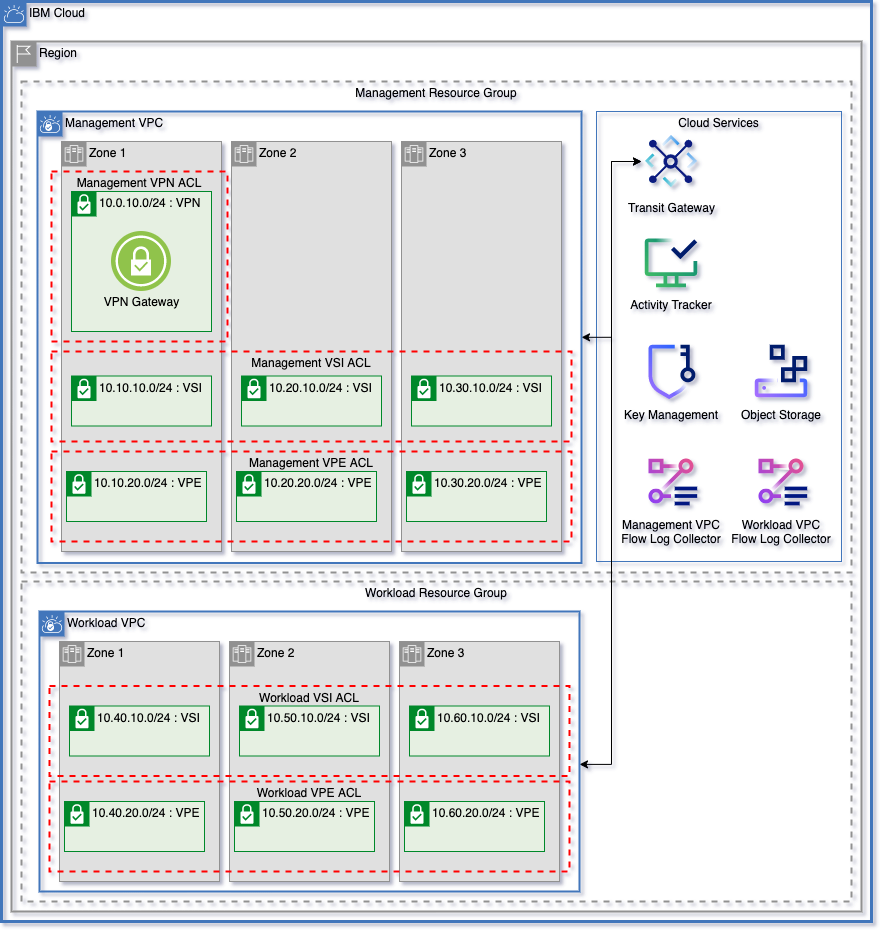
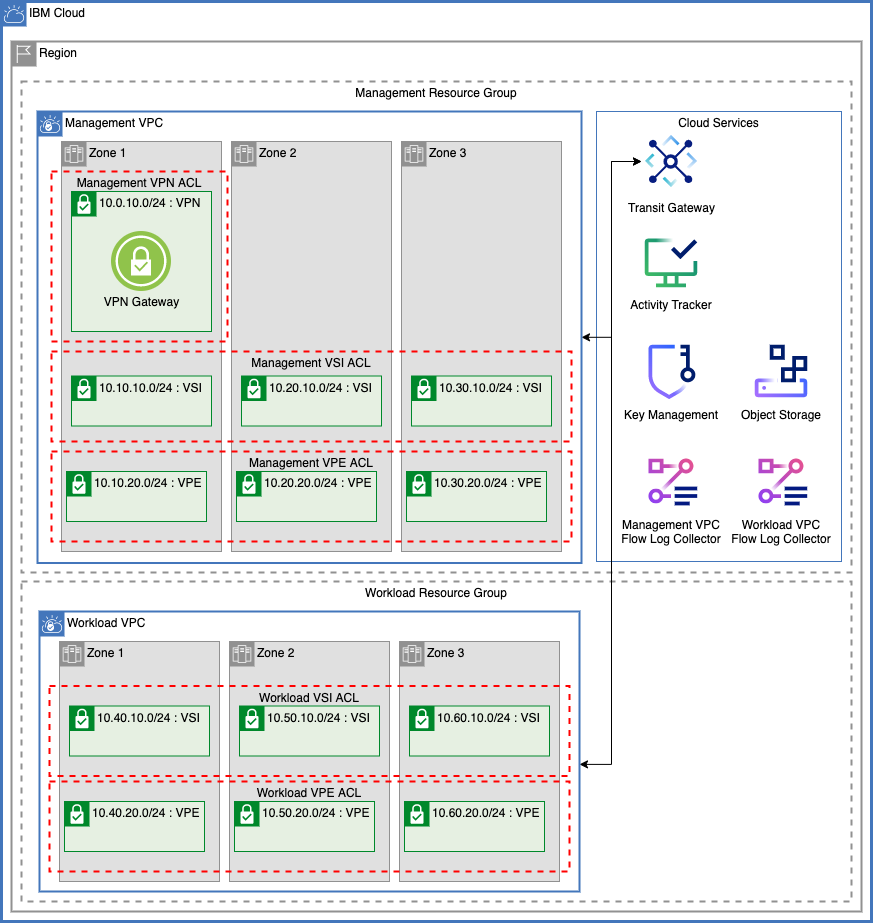
Add VPE

Changed region(s): [[0.0, 0.0, 1.0, 1.0]]

diff --git a/README.md b/README.md
@@ -24,9 +24,10 @@ Create flexible VPC networks in 1, 2, or 3 zones using Flow Logs and encrypted C
 5. [Logging and Monitoring](#logging-and-monitoring) 
     - [Flow Logs Collectors](#flow-logs-collectors)
     - [Atracker](#atracker)
-6. [Naming Convention](#naming-convention)
-7. [Template Variables](#template-variables)
-8. [Template Outputs](#template-outputs)
+6. [Virtual Private Endpoints](#virtual-private-endpoints)
+7. [Naming Convention](#naming-convention)
+8. [Template Variables](#template-variables)
+9. [Template Outputs](#template-outputs)
 
 ---
 
@@ -237,54 +238,85 @@ By setting the `enable_atracker` variable to `true`, an Atracker target will be 
 
 ---
 
+## Virtual Private Endpoints
+
+Set the `enable_virtual_private_enpoints` variable to `true` to enable the creation of Virtual Private Endpoints for cloud servies. This template uses the [ICSE VPE Module](github.com/Cloud-Schematics/vpe-module) to create Reserved IPs and Gateways.
+
+### Example Architecture with Enabled VPE
+
+![vpn-nw](.docs/vpe-nw.png)
+
+### VPE Varaibles
+
+Name                                     | Type         | Description                                                                                            | Sensitive | Default
+---------------------------------------- | ------------ | ------------------------------------------------------------------------------------------------------ | --------- | -------------------------------
+enable_virtual_private_endpoints         | bool         | Enable virtual private endpoints.                                                                      |           | false
+vpe_services                             | list(string) | List of VPE Services to use to create endpoint gateways.                                               |           | ["cloud-object-storage", "kms"]
+vpcs_create_endpoint_gateway_on_vpe_tier | list(string) | Create a Virtual Private Endpoint for supported services on each `vpe` tier of VPC names in this list. |           | ["management", "workload"]
+
+### VPE Failure States
+
+Configuration for this template will fail if `enable_virtual_private_endpoints` is true and `vpe` is not found in `subnet_tiers`.
+
+---
+
 ## Naming Convention
 
 Each resource created using this template has the prefix in `var.prefix` prepended to the resource service instance name.
 
-Resource Type               | Name Format
-----------------------------|---------------
-Resource Group              | `<prefix>-<vpc_name>-rg`
-Object Storage              | `<prefix>-cos-<random_suffix>`
-Object Storage Buckets      | `<prefix>-<vpc_name>-<flow-logs or atracker>-bucket-<random_suffix>`
-Key Management              | `<prefix>-kms`
-Key Management Key          | `<prefix>-bucket-key`
-Transit Gateway             | `<prefix>-transit-gateway`
-Transit Gateway Connections | `<prefix>-<vpc_name>-hub-connection`
-Public Gateways             | `<prefix>-<vpc_name>-public-gateway-zone-<zone>`
-Network ACLs                | `<prefix>-<vpc_name>-<subnet_tier_name>-acl`
-Subnets                     | `<prefix>-<vpc_name>-<subnet_tier_name>-<zone>`
-VPN Gateways                | `<prefix>-<vpc_name>-vpn-gateway`
-VPCs                        | `<prefix>-<vpc_name>-vpc`
-Flow Logs Collectors        | `<prefix>-<vpc_name>-flow-logs`
-Atracker                    | `<<prefix>-atracker`
+Resource Type                     | Name Format
+----------------------------------|---------------
+Resource Group                    | `<prefix>-<vpc_name>-rg`
+Object Storage                    | `<prefix>-cos-<random_suffix>`
+Object Storage Buckets            | `<prefix>-<vpc_name>-<flow-logs or atracker>-bucket-<random_suffix>`
+Key Management                    | `<prefix>-kms`
+Key Management Key                | `<prefix>-bucket-key`
+Transit Gateway                   | `<prefix>-transit-gateway`
+Transit Gateway Connections       | `<prefix>-<vpc_name>-hub-connection`
+Public Gateways                   | `<prefix>-<vpc_name>-public-gateway-zone-<zone>`
+Network ACLs                      | `<prefix>-<vpc_name>-<subnet_tier_name>-acl`
+Subnets                           | `<prefix>-<vpc_name>-<subnet_tier_name>-<zone>`
+VPN Gateways                      | `<prefix>-<vpc_name>-vpn-gateway`
+VPCs                              | `<prefix>-<vpc_name>-vpc`
+Flow Logs Collectors              | `<prefix>-<vpc_name>-flow-logs`
+Atracker                          | `<prefix>-atracker`
+Virtual Private Endpoint Gateways | `<prefix>-<vpc_name>-<service>-endpoint-gateway`
 
 ---
 
 ## Template Variables
 
-Name                                | Type         | Description                                                                                                                                                                                  | Sensitive | Default
------------------------------------ | ------------ | -------------------------------------------------------------------------------------------------------------------------------------------------------------------------------------------- | --------- | ---------------------------------
-ibmcloud_api_key                    | string       | The IBM Cloud platform API key needed to deploy IAM enabled resources.                                                                                                                       | true      | 
-region                              | string       | The region to which to deploy the VPC                                                                                                                                                        |           | 
-prefix                              | string       | The prefix that you would like to prepend to your resources                                                                                                                                  |           | 
-tags                                | list(string) | List of Tags for the resource created                                                                                                                                                        |           | null
-zones                               | number       | Number of zones for each VPC                                                                                                                                                                 |           | 3
-vpc_names                           | list(string) | Names for VPCs to create. A resource group will be dynamically created for each VPC.                                                                                                         |           | ["management", "workload"]
-vpc_subnet_tiers                    | list(string) | List of names for subnet tiers to add to each VPC. For each tier, a subnet will be created in each zone of each VPC. Each tier of subnet will have a unique access control list on each VPC. |           | ["vsi", "vpe"]
-vpc_subnet_tiers_add_public_gateway | list(string) | List of subnet tiers where a public gateway will be attached. Public gateways will be created in each VPC using these network tiers.                                                         |           | ["vpn"]
-vpcs_add_vpn_subnet                 | list(string) | List of VPCs to add a subnet and VPN gateway. VPCs must be defined in `var.vpc_names`. A subnet and address prefix will be added in zone 1 for the VPN Gateway.                              |           | ["management"]
-enable_transit_gateway              | bool         | Create transit gateway                                                                                                                                                                       |           | true
-transit_gateway_connections         | list(string) | List of VPC names from `var.vpc_names` to connect via a single transit gateway. To not use transit gateway, provide an empty list.                                                           |           | ["management", "workload"]
-add_cluster_rules                   | bool         | Automatically add needed ACL rules to allow each network to create and manage Openshift and IKS clusters.                                                                                    |           | true
-global_inbound_allow_list           | list(string) | List of CIDR blocks where inbound traffic will be allowed. These allow rules will be added to each network acl.                                                                              |           | [ "10.0.0.0/8", "161.26.0.0/16" ]
-global_outbound_allow_list          | list(string) | List of CIDR blocks where outbound traffic will be allowed. These allow rules will be added to each network acl.                                                                             |           | [ "0.0.0.0/0" ]
-global_inbound_deny_list            | list(string) | List of CIDR blocks where inbound traffic will be denied. These deny rules will be added to each network acl. Deny rules will be added after all allow rules.                                |           | [ "0.0.0.0/0" ]
-global_outbound_deny_list           | list(string) | List of CIDR blocks where outbound traffic will be denied. These deny rules will be added to each network acl. Deny rules will be added after all allow rules.                               |           | []
-existing_hs_crypto_name             | string       | OPTIONAL - Get data for an existing HPCS instance. If you want a KMS instance to be created, leave as `null`.                                                                                |           | null
-existing_hs_crypto_resource_group   | string       | OPTIONAL - Resource group name for an existing HPCS instance. Use only with `existing_hs_crypto_name`.                                                                                       |           | null
-enable_atracker                     | bool         | Enable activity tracker for this pattern.                                                                                                                                                    |           | true
-add_atracker_route                  | bool         | Add a route to the Atracker instance.                                                                                                                                                        |           | false
-cos_use_random_suffix               | bool         | Add a randomize suffix to the end of each Object Storage resource created in this module.                                                                                                    |           | true
+Name                                     | Type                                                      | Description                                                                                                                                                                                             | Sensitive | Default
+---------------------------------------- | --------------------------------------------------------- | ------------------------------------------------------------------------------------------------------------------------------------------------------------------------------------------------------- | --------- | ---------------------------------
+ibmcloud_api_key                         | string                                                    | The IBM Cloud platform API key needed to deploy IAM enabled resources.                                                                                                                                  | true      | 
+region                                   | string                                                    | The region to which to deploy the VPC                                                                                                                                                                   |           | 
+prefix                                   | string                                                    | The prefix that you would like to prepend to your resources                                                                                                                                             |           | 
+tags                                     | list(string)                                              | List of Tags for the resource created                                                                                                                                                                   |           | null
+zones                                    | number                                                    | Number of zones for each VPC                                                                                                                                                                            |           | 3
+vpc_names                                | list(string)                                              | Names for VPCs to create. A resource group will be dynamically created for each VPC.                                                                                                                    |           | ["management", "workload"]
+vpc_subnet_tiers                         | list(string)                                              | List of names for subnet tiers to add to each VPC. For each tier, a subnet will be created in each zone of each VPC. Each tier of subnet will have a unique access control list on each VPC.            |           | ["vsi", "vpe"]
+vpc_subnet_tiers_add_public_gateway      | list(string)                                              | List of subnet tiers where a public gateway will be attached. Public gateways will be created in each VPC using these network tiers.                                                                    |           | ["vpn"]
+vpcs_add_vpn_subnet                      | list(string)                                              | List of VPCs to add a subnet and VPN gateway. VPCs must be defined in `var.vpc_names`. A subnet and address prefix will be added in zone 1 for the VPN Gateway.                                         |           | ["management"]
+enable_transit_gateway                   | bool                                                      | Create transit gateway                                                                                                                                                                                  |           | true
+transit_gateway_connections              | list(string)                                              | List of VPC names from `var.vpc_names` to connect via a single transit gateway. To not use transit gateway, provide an empty list.                                                                      |           | ["management", "workload"]
+add_cluster_rules                        | bool                                                      | Automatically add needed ACL rules to allow each network to create and manage Openshift and IKS clusters.                                                                                               |           | true
+global_inbound_allow_list                | list(string)                                              | List of CIDR blocks where inbound traffic will be allowed. These allow rules will be added to each network acl.                                                                                         |           | [ "10.0.0.0/8", "161.26.0.0/16" ]
+global_outbound_allow_list               | list(string)                                              | List of CIDR blocks where outbound traffic will be allowed. These allow rules will be added to each network acl.                                                                                        |           | [ "0.0.0.0/0" ]
+global_inbound_deny_list                 | list(string)                                              | List of CIDR blocks where inbound traffic will be denied. These deny rules will be added to each network acl. Deny rules will be added after all allow rules.                                           |           | [ "0.0.0.0/0" ]
+global_outbound_deny_list                | list(string)                                              | List of CIDR blocks where outbound traffic will be denied. These deny rules will be added to each network acl. Deny rules will be added after all allow rules.                                          |           | []
+apply_new_rules_before_old_rules         | bool                                                      | When set to `true`, any new rules to be applied to existing Network ACLs will be added **before** existing rules and after any detailed rules that will be added. Otherwise, rules will be added after. |           | true
+deny_all_tcp_ports                       | list(number)                                              | Deny all inbound and outbound TCP traffic on each port in this list.                                                                                                                                    |           | [22, 80]
+deny_all_udp_ports                       | list(number)                                              | Deny all inbound and outbound UDP traffic on each port in this list.                                                                                                                                    |           | [22, 80]
+get_detailed_acl_rules_from_json         | bool                                                      | Decode local file `acl-rules.json` for the automated creation of Network ACL rules. If this is set to `false`, detailed_acl_rules will be used instead.                                                 |           | false
+detailed_acl_rules                       | See [variables.tf](./variables.tf#L216) for full details  | List describing network ACLs and rules to add.                                                                                                                                                          |           | []
+existing_hs_crypto_name                  | string                                                    | OPTIONAL - Get data for an existing HPCS instance. If you want a KMS instance to be created, leave as `null`.                                                                                           |           | null
+existing_hs_crypto_resource_group        | string                                                    | OPTIONAL - Resource group name for an existing HPCS instance. Use only with `existing_hs_crypto_name`.                                                                                                  |           | null
+enable_atracker                          | bool                                                      | Enable activity tracker for this pattern.                                                                                                                                                               |           | true
+add_atracker_route                       | bool                                                      | Add a route to the Atracker instance.                                                                                                                                                                   |           | false
+cos_use_random_suffix                    | bool                                                      | Add a randomize suffix to the end of each Object Storage resource created in this module.                                                                                                               |           | true
+enable_virtual_private_endpoints         | bool                                                      | Enable virtual private endpoints.                                                                                                                                                                       |           | true
+vpe_services                             | list(string)                                              | List of VPE Services to use to create endpoint gateways.                                                                                                                                                |           | ["cloud-object-storage", "kms"]
+vpcs_create_endpoint_gateway_on_vpe_tier | list(string)                                              | Create a Virtual Private Endpoint for supported services on each `vpe` tier of VPC names in this list.                                                                                                  |           | ["management", "workload"]
 
 ---
 
